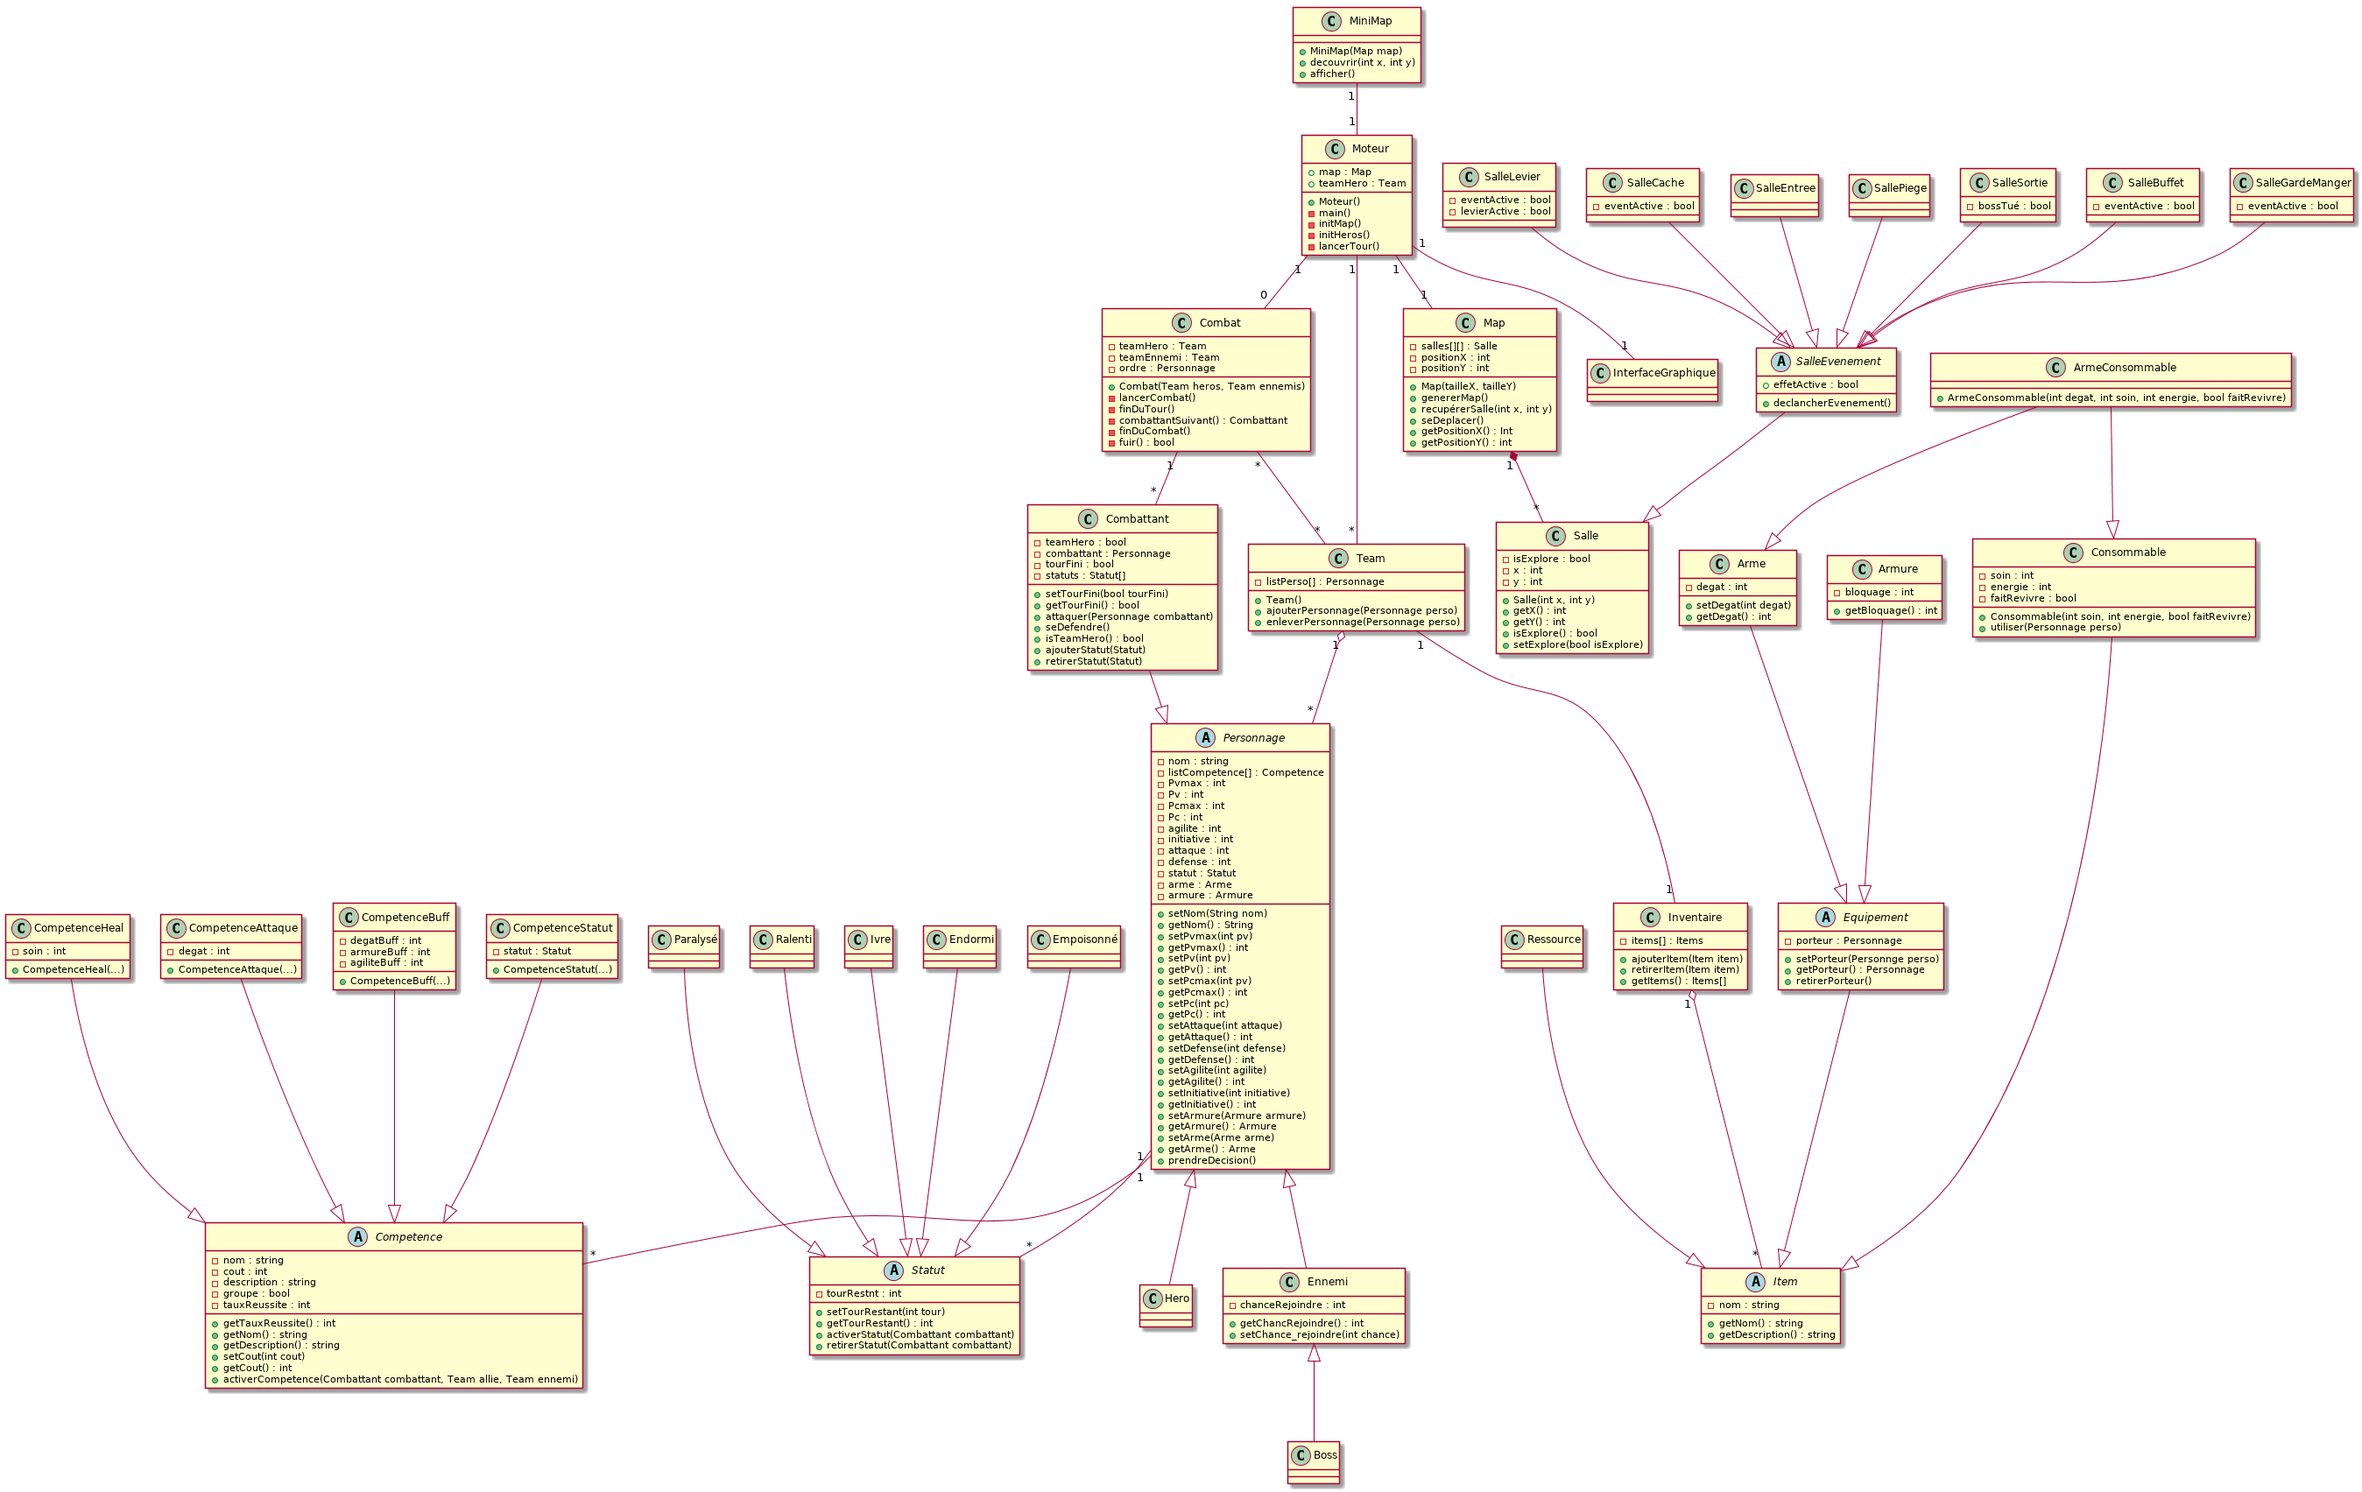
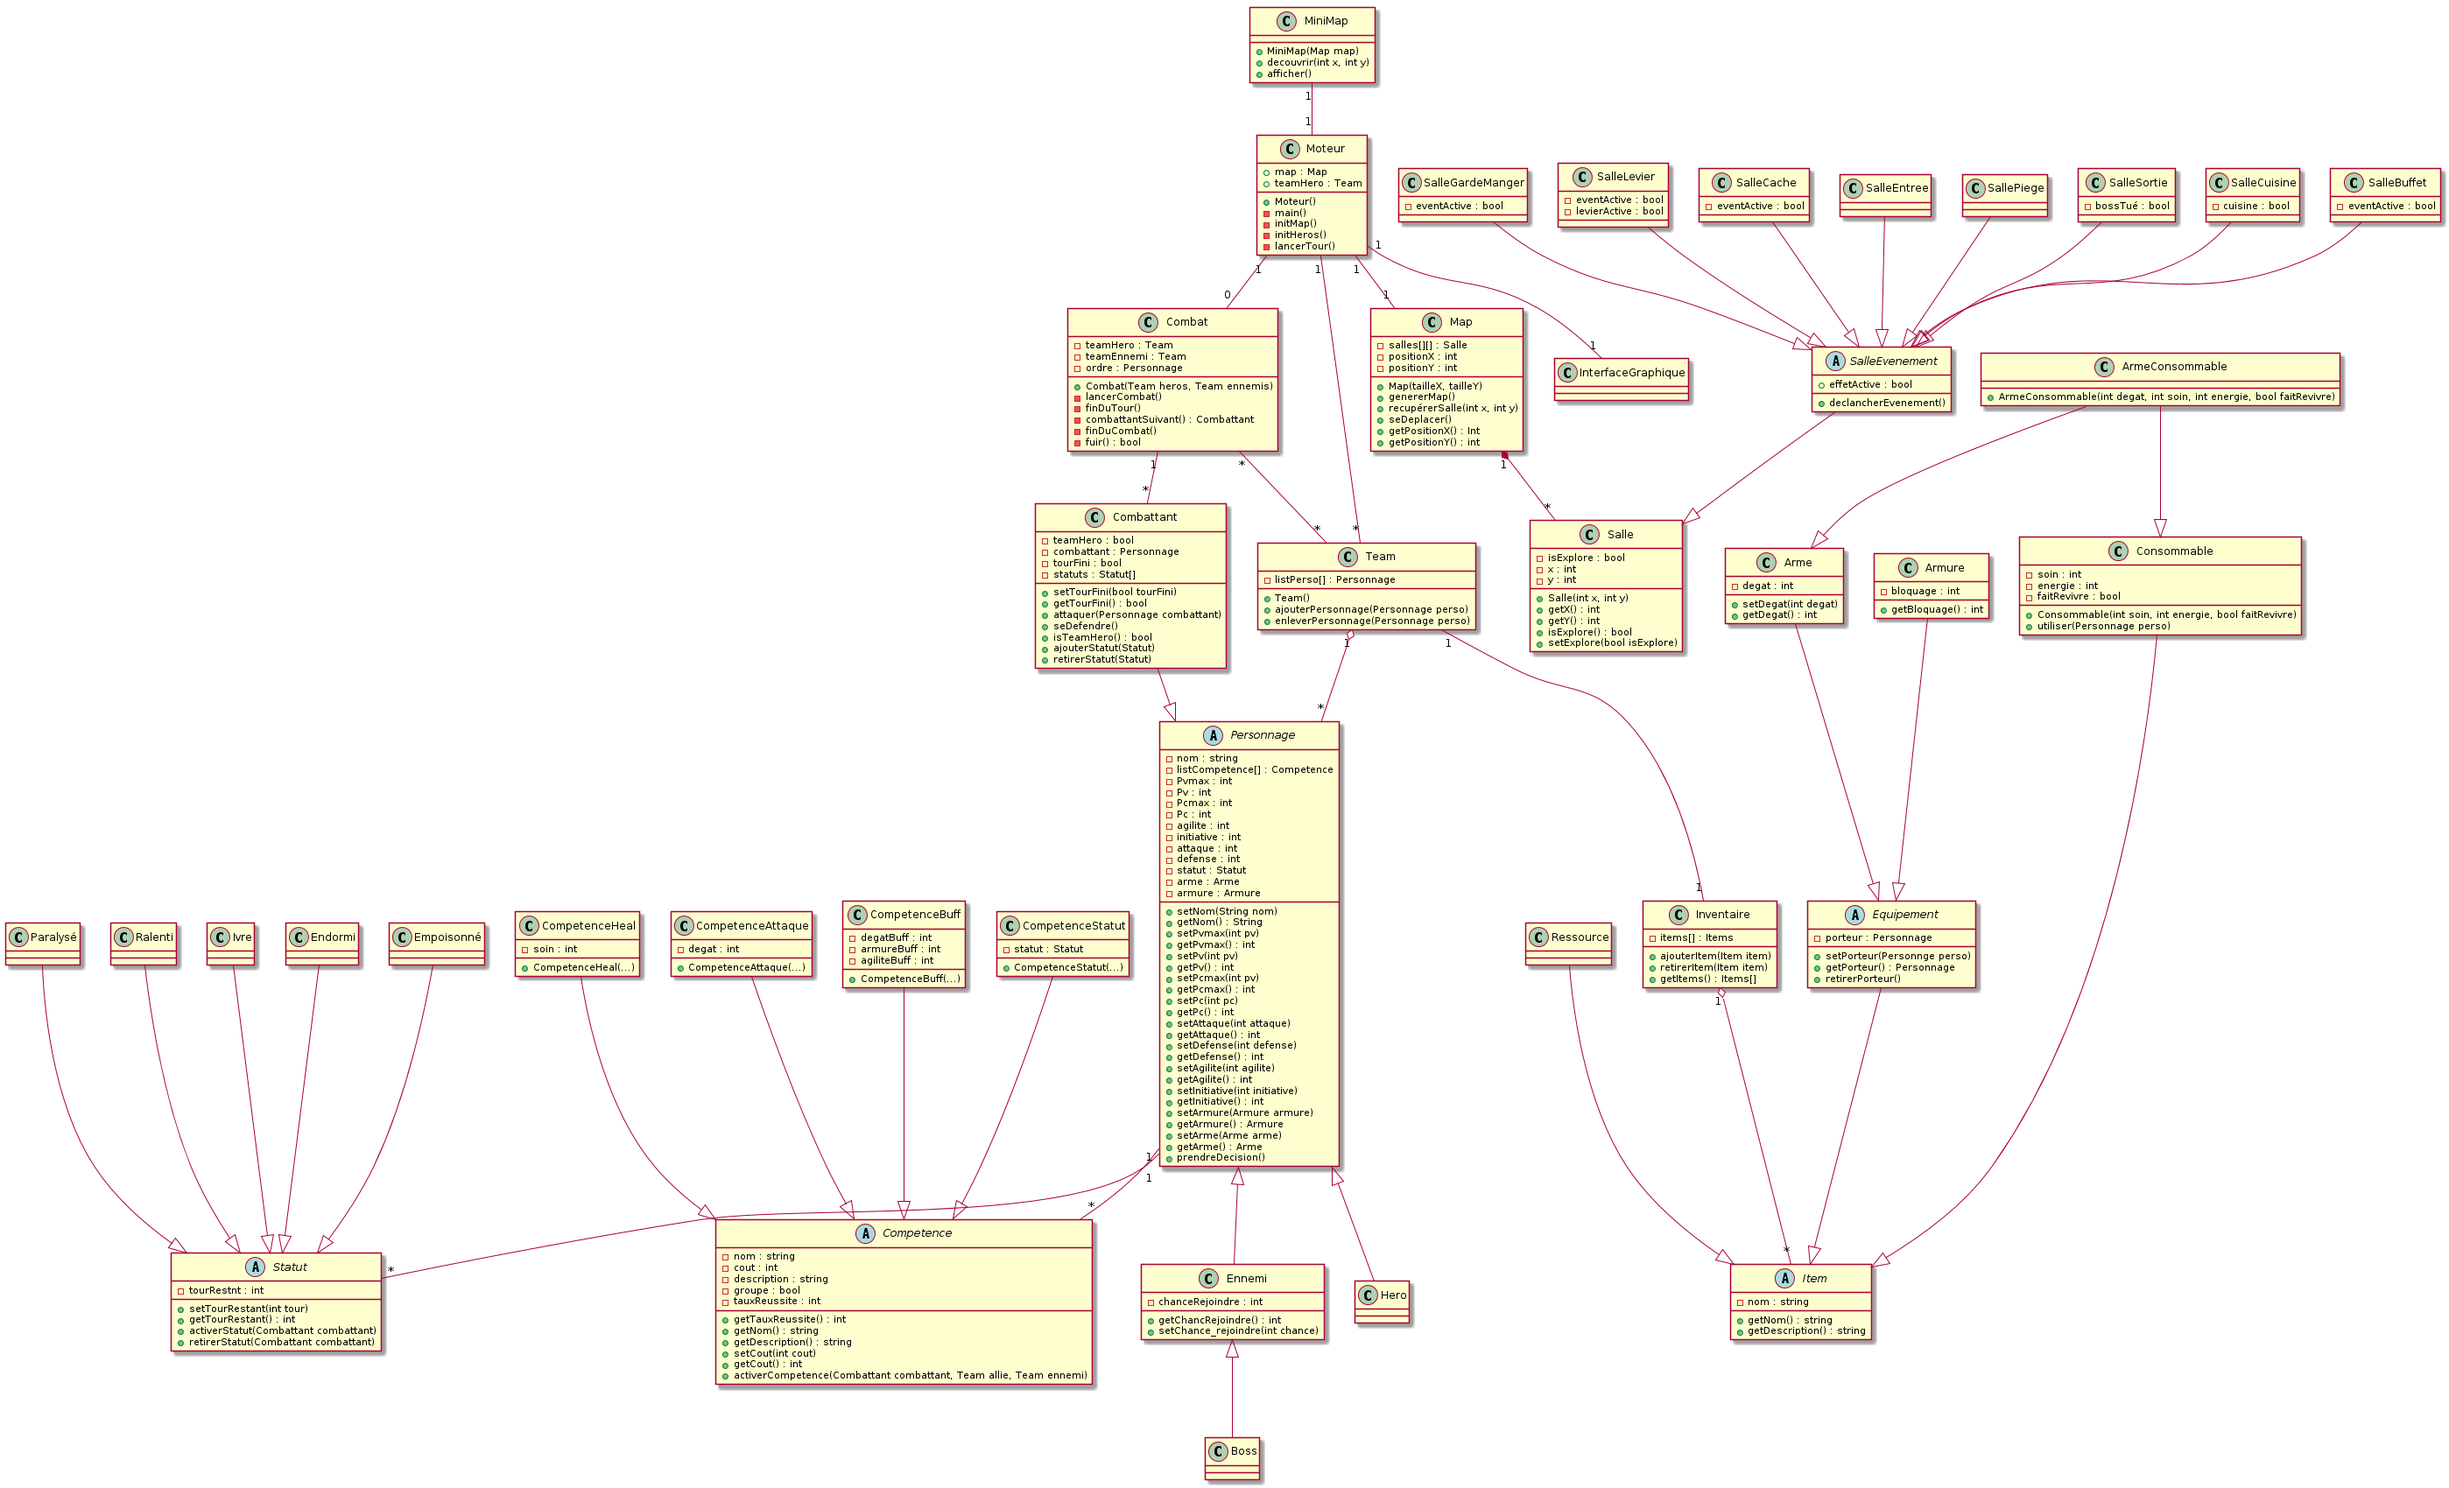
ajout salleCuisine en UML et en code

diff --git a/Code python/SalleCuisine.py b/Code python/SalleCuisine.py
@@ -1,0 +1,8 @@
+from SalleEvenement import *
+
+class SalleCuisine(SalleEvenement):
+    def __init__(self):
+        self.__cuisine=1
+
+    def getCuisine(self):
+        return self.__cuisine
